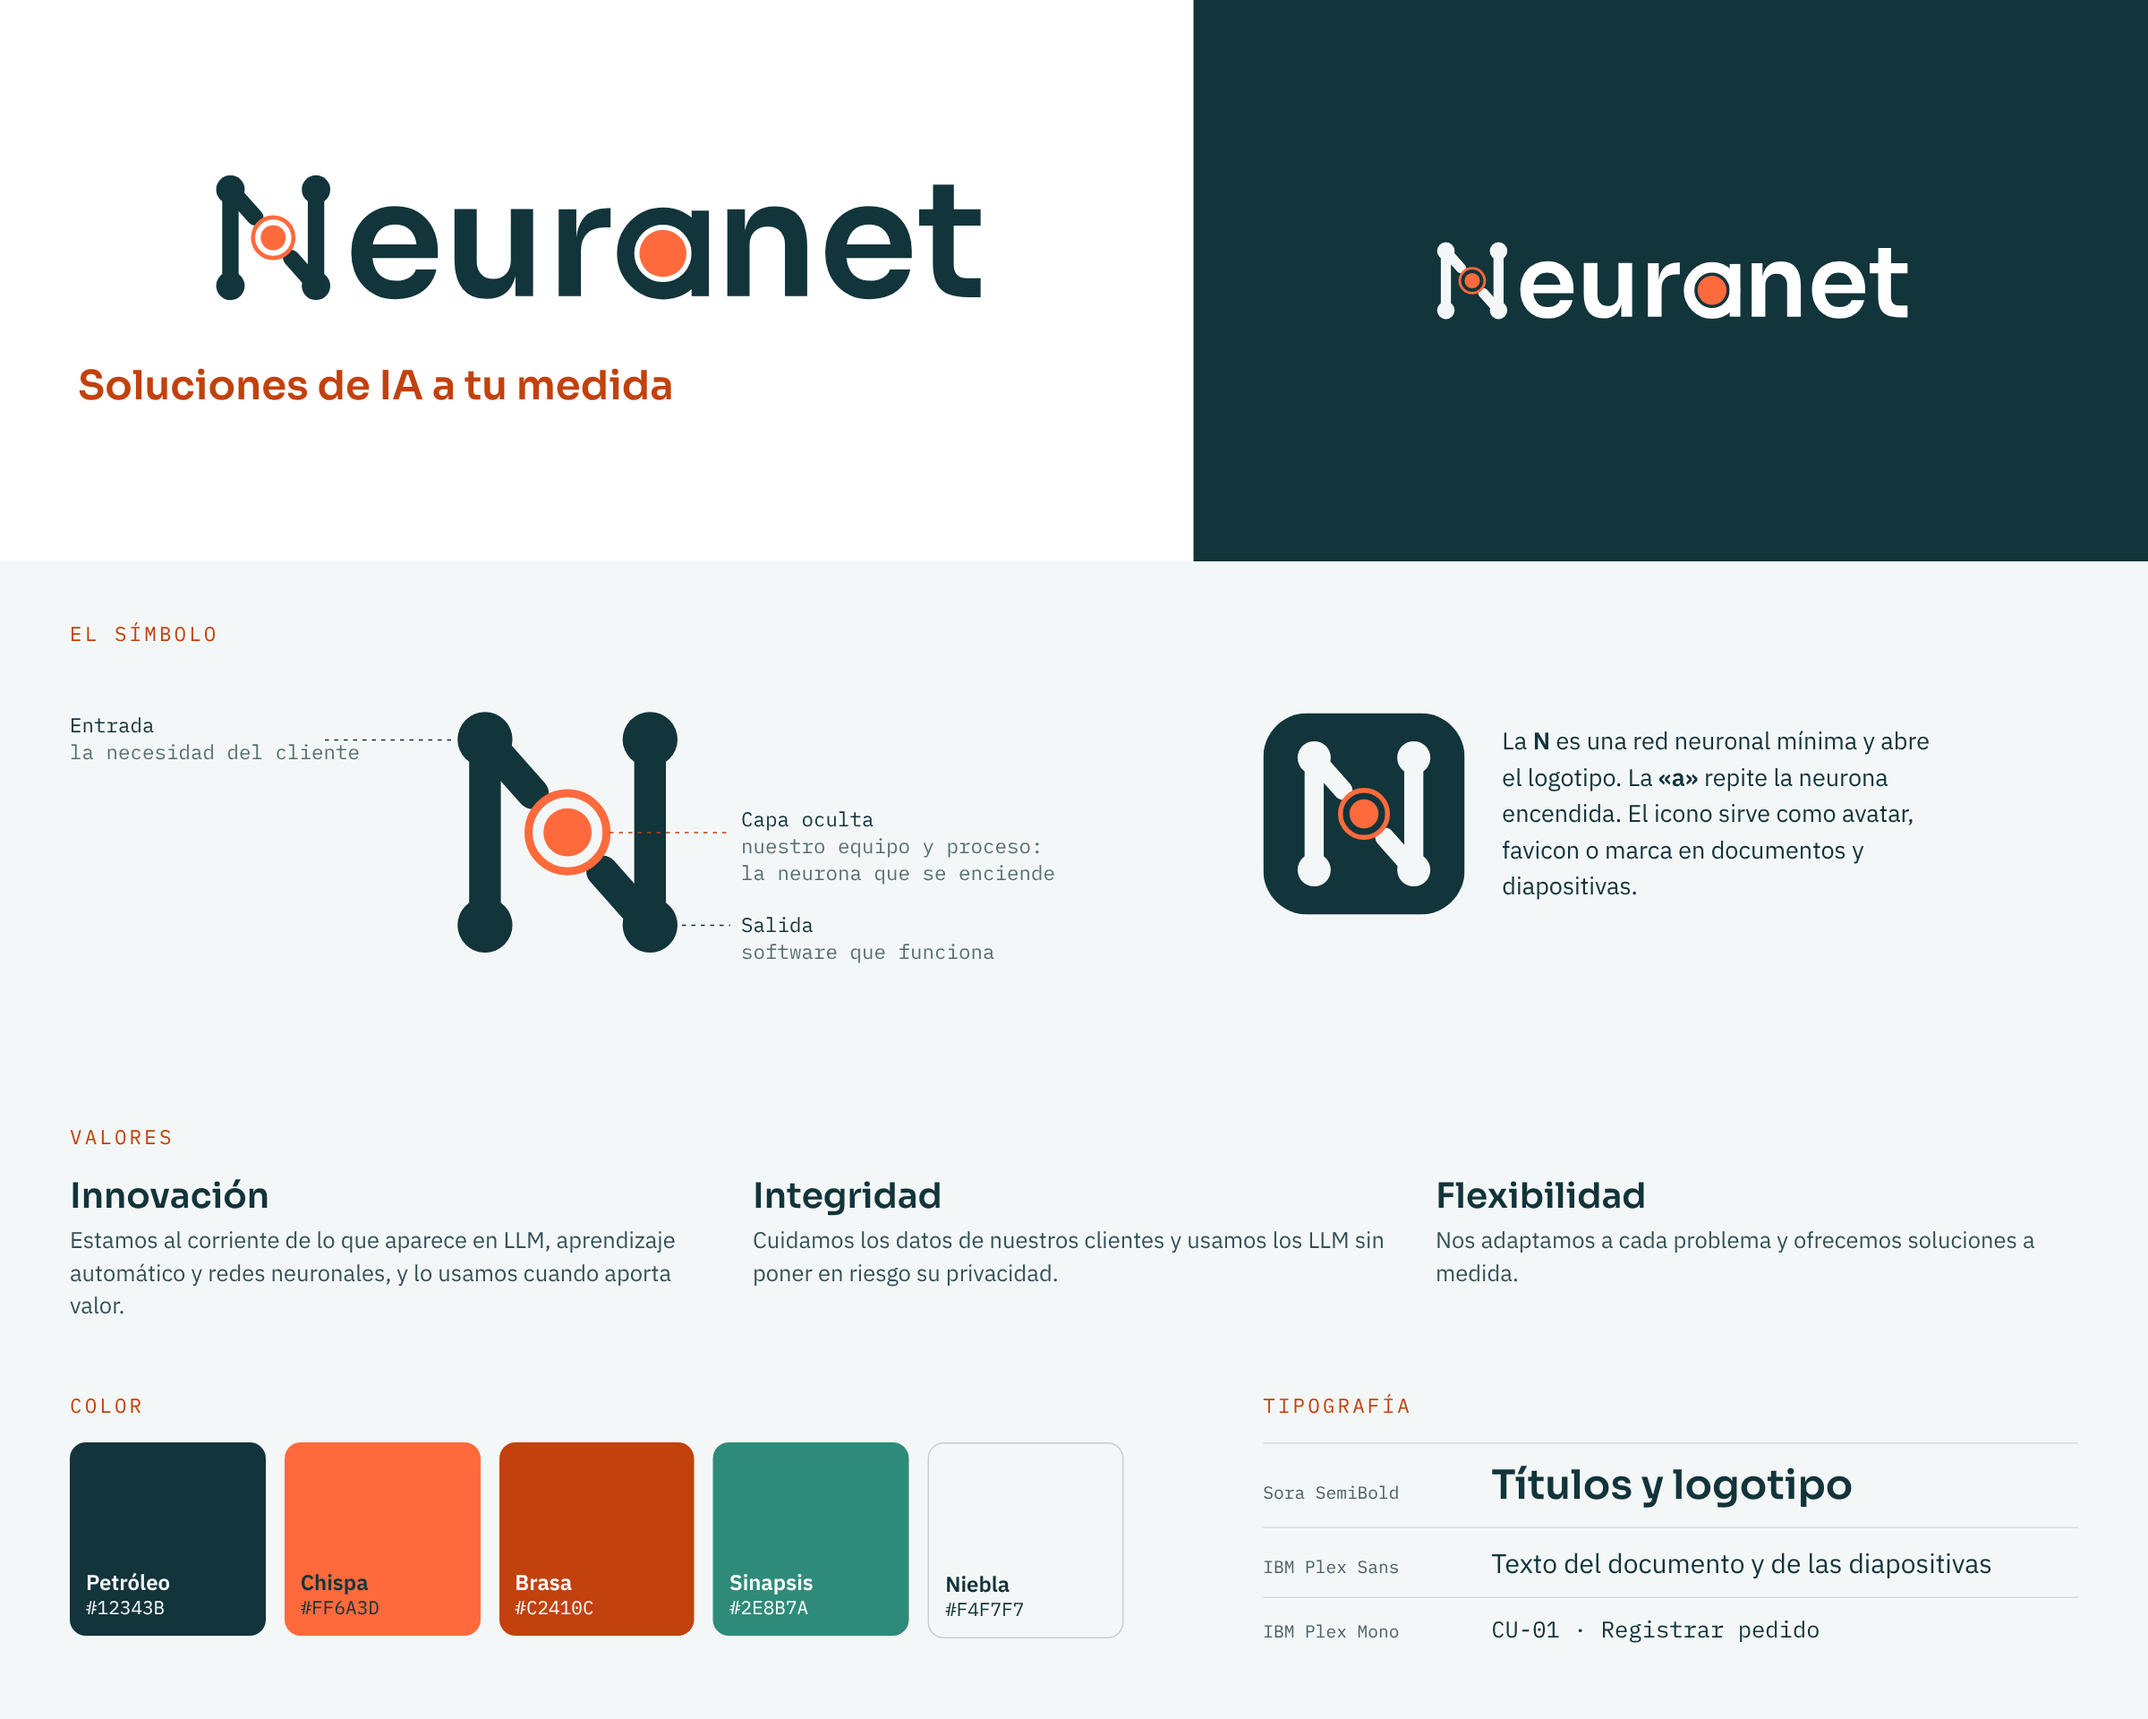
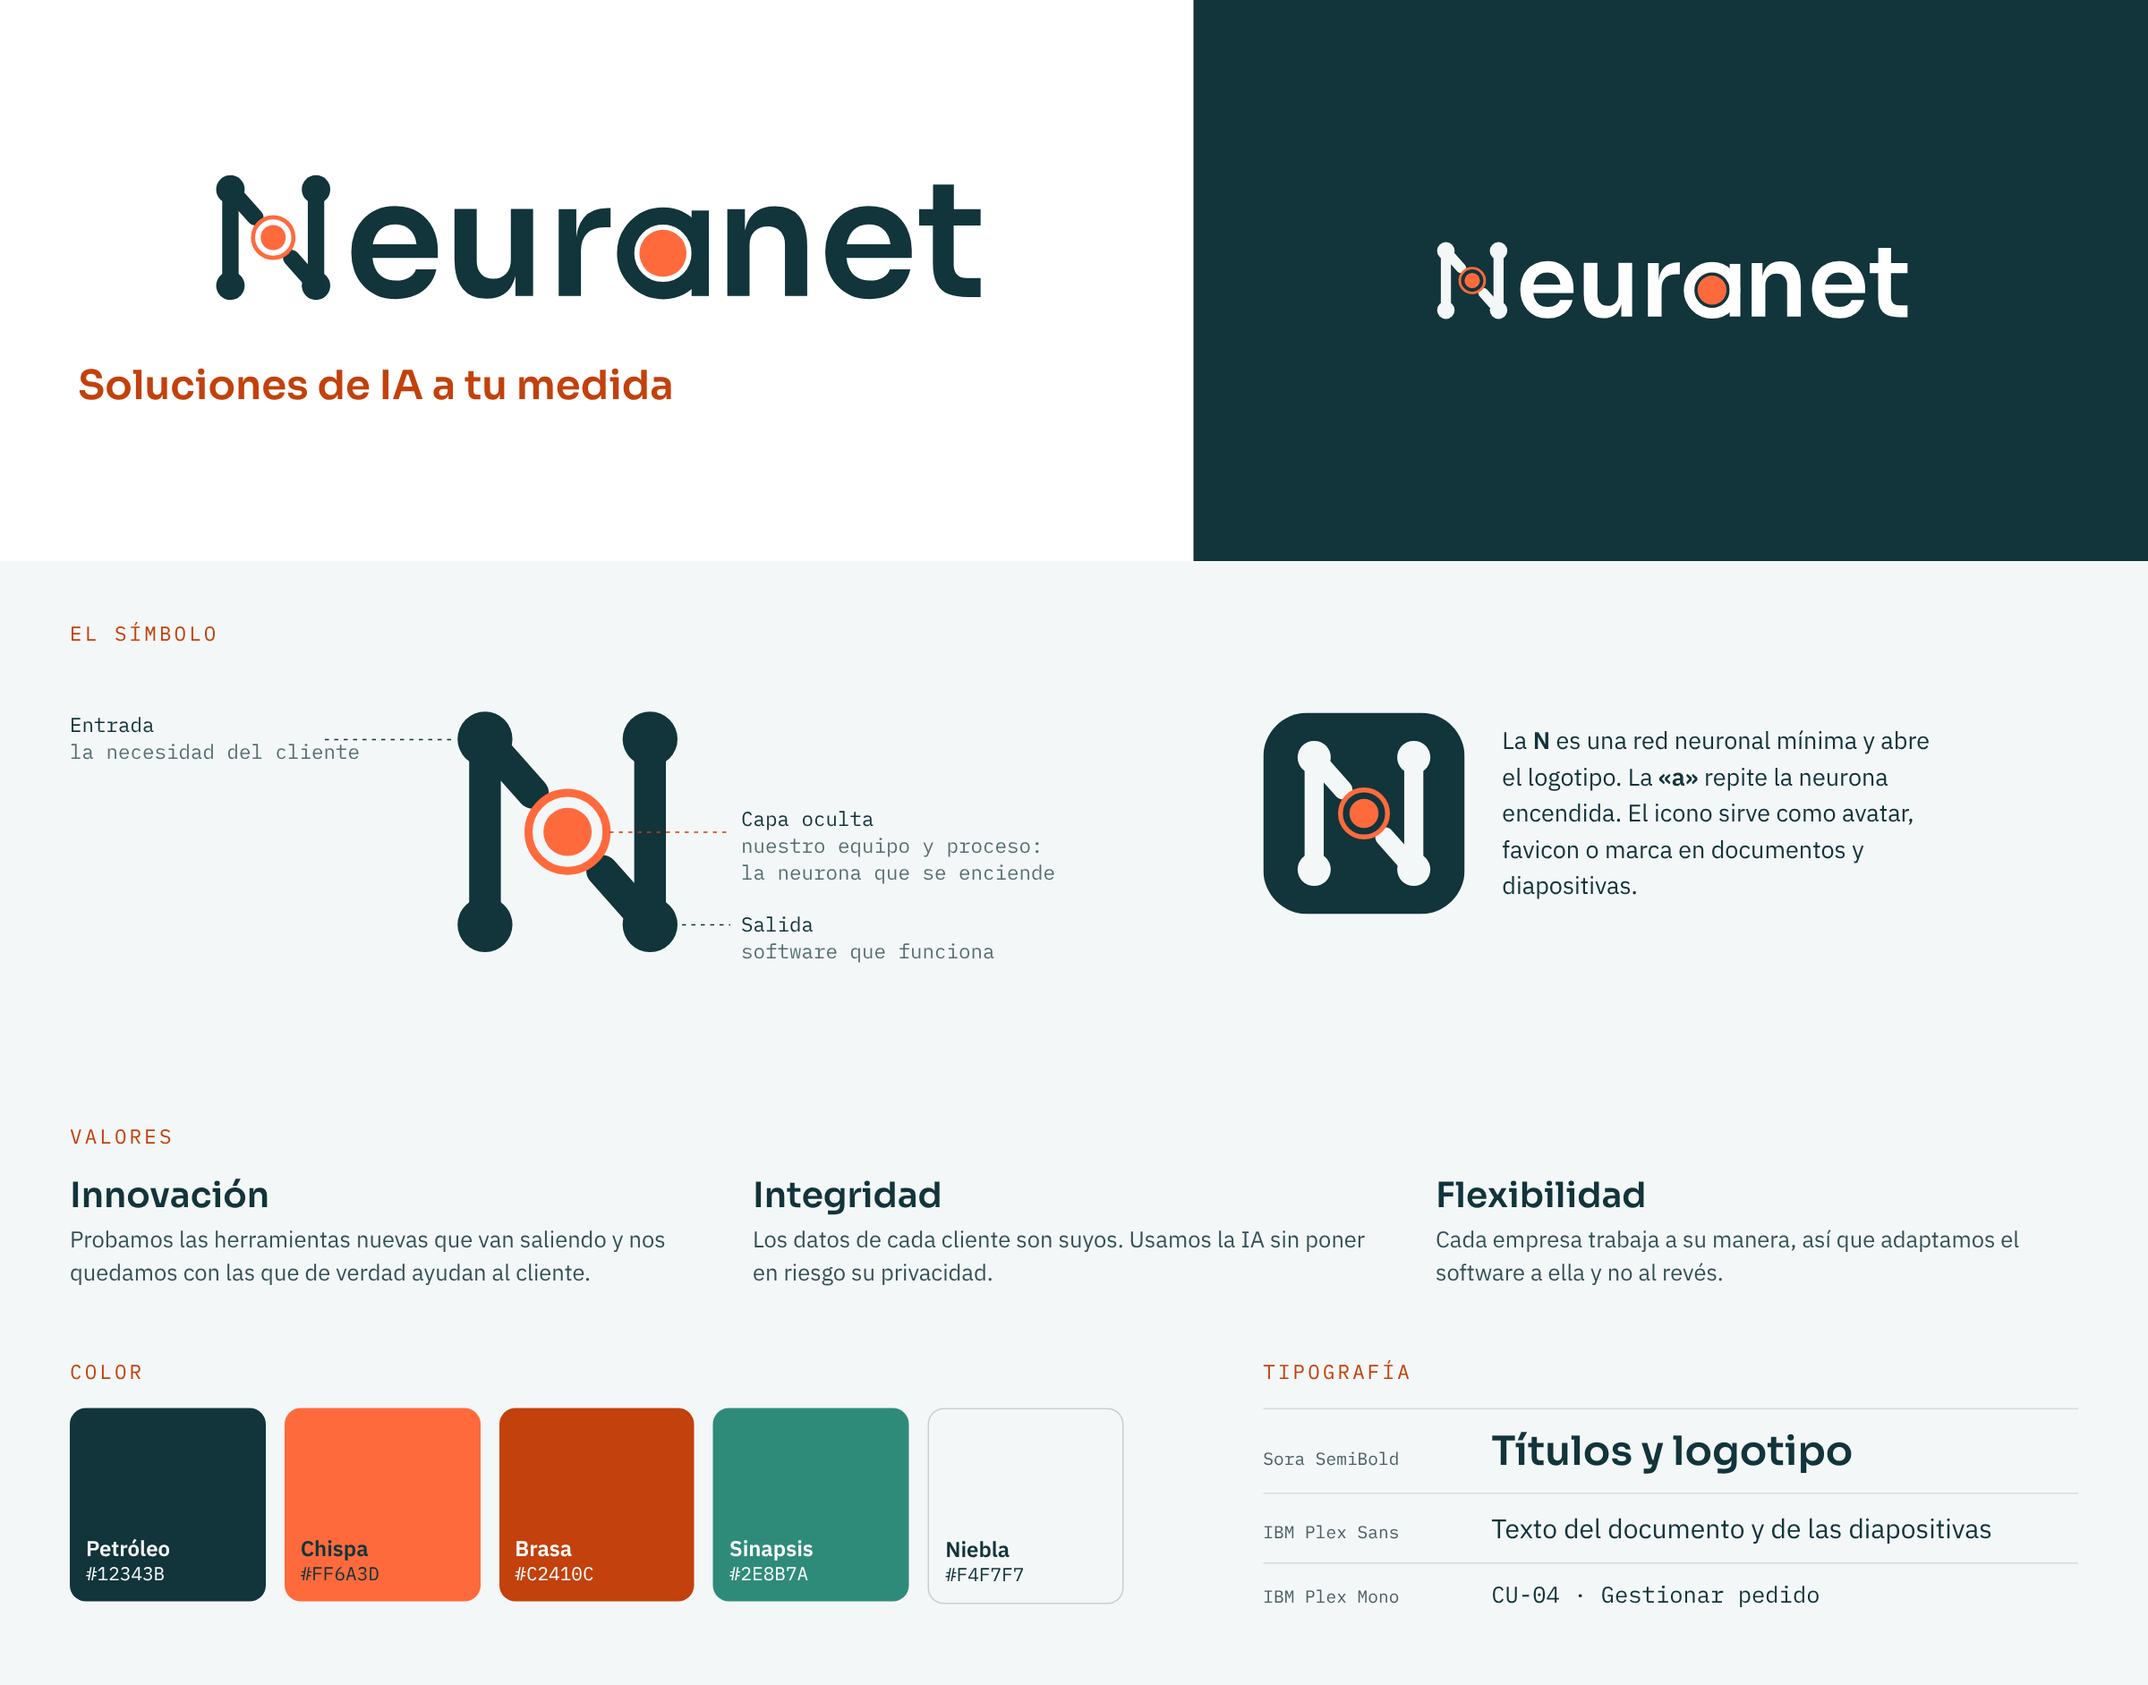
Poner al día la documentación del repo
- README de la raíz: qué es el proyecto, equipo, estado y estructura.
- Entrega 1: qué se entrega, guion de la presentación y checklist actualizada.
- Marca: valores con el texto final, también en la hoja de marca.
- Plantillas: chapter-break, section-tag y slide(fit: true).

diff --git a/entrega-1/README.md b/entrega-1/README.md
@@ -22,6 +22,25 @@ Resumen visual de todo el caso práctico: [`../RESUMEN-ENUNCIADO.md`](../RESUMEN
 
 Además se aplican las reglas generales (PDF pp. 13–14; diap. 15): **si falta algún apartado, no se aprueba** (completitud). Las decisiones se valoran **razonadas**. Nada de relleno ni adornos. Una mala redacción u ortografía puede quitar **hasta un 20 %**.
 
+## 📦 Qué se entrega
+
+| Fichero | Qué es |
+|---|---|
+| [`documento.pdf`](documento.pdf) | **La entrega**: 7 páginas. 1 Quiénes somos (nombre, valores, marca) · 2 Modelo de negocio (precio cerrado + cuota mensual, lienzo) · 3 Organización (estructura mixta, organigrama, cómo trabajamos) · 4 Casos de uso (decisiones, cambios tras la reunión, diagrama y tabla de CoreReservas y CoreBodega) |
+| [`presentacion.pdf`](presentacion.pdf) | 13 diapositivas, en el mismo orden que el documento. Poco texto: el resto se cuenta de palabra |
+| [`acta-reunion-01.pdf`](acta-reunion-01.pdf) | Acta de la reunión con el cliente del 16 oct (NN-AM-ACT-01). El documento la cita |
+
+Si Blackboard solo deja subir un fichero, se suben los tres en un `.zip`.
+
+**Guion de la presentación** (reparto propuesto por secciones, sin decidir aún):
+
+| Diapositivas | Sección | Qué contar |
+|---|---|---|
+| 1–5 | Quiénes somos | De dónde viene el nombre, qué hacemos, los tres valores, el logo («N» = red neuronal) y el lema |
+| 6–7 | Modelo de negocio | Para quién trabajamos, qué ofrecemos y cómo cobramos; recorrer el lienzo |
+| 8 | Organización | Por qué mezclamos jerárquica y plana, qué hace cada uno, trabajo híbrido y Proceso Unificado |
+| 9–12 | Casos de uso | Un diagrama por programa, un caso de uso por opción del menú, actores, «include» y «extend», y qué cambió tras la reunión |
+
 ---
 
 ## ✅ Checklist
@@ -78,11 +97,12 @@ Esto es lo que **dice el enunciado**, no un diseño: cómo lo agrupéis en casos
 
 ### Parte 3 · Documentación y presentación (25 %)
 
-- [x] **Documento** (PDF) con portada (empresa, logo, nombres de los cuatro miembros, asignatura, «Entrega 1») y las dos partes
+- [x] **Documento** (PDF) con portada (empresa, logo, cliente y los cuatro miembros) y las dos partes. Está escrito como un documento de Neuranet para el cliente, así que no lleva el nombre de la asignatura.
 - [x] **Diapositivas** para la exposición, con la marca de la empresa
 - [x] Diagramas **nítidos y legibles** al exportarlos, relacionados con el texto que los acompaña (PDF p. 14)
 - [ ] Revisión de **ortografía y redacción** por alguien que no lo haya escrito. No copiéis las erratas del enunciado: escribid **CoreBodega** (no «CoreBodegas»), **AñadaMaster** (sin tilde en la a) y **post mortem**.
 - [x] Sin relleno ni elementos solo decorativos (simplicidad)
+- [x] Textos en lenguaje llano, pensados para que los lea el cliente
 - [ ] Nada copiado de Internet ni de otro grupo. Se suspende **toda la asignatura** (diap. 16).
 
 ### Parte 4 · Exposición en clase (25 %)

diff --git a/README.md b/README.md
@@ -1,0 +1,40 @@
+# Neuranet · AñadaMaster
+
+Proyecto final de Ingeniería del Software (U-tad, 2026–27). Somos **Neuranet**, una empresa de software ficticia, y nuestro cliente es **Bodegas Viña Alcorza**, que nos encarga **AñadaMaster**: un sistema de gestión con dos programas, **CoreReservas** (pedidos) y **CoreBodega** (uva y empleados).
+
+| Persona | Cargo |
+|---|---|
+| Itziar Morales Rodriguez | CEO & Project Manager |
+| Samuel Porta Boylan | Business Analyst |
+| Javier Cejuela García | Software Architect |
+| Diego Herrera Rodríguez | Lead Developer (AI & QA) |
+
+## Estado
+
+| Entrega | Fecha | Estado |
+|---|---|---|
+| **Entrega 1** · Empresa + casos de uso | 22 oct 2026, 23:55 | Lista para entregar: [`entrega-1/`](entrega-1/README.md) |
+
+## Qué hay en el repo
+
+| Carpeta / fichero | Qué es |
+|---|---|
+| [`Enunciado Caso Práctico.pdf`](<Enunciado Caso Práctico.pdf>) | El enunciado (V 2.0) |
+| [`RESUMEN-ENUNCIADO.md`](RESUMEN-ENUNCIADO.md) | Resumen visual del caso práctico y de todas las entregas |
+| [`entrega-1/`](entrega-1/README.md) | Documento, diapositivas y acta de la E1 (`.typ` + `.pdf`), checklist, dudas para el cliente y marca |
+| [`diagramas/`](diagramas/) | Diagramas de se-ramify (JSON): casos de uso de CoreReservas y CoreBodega, con su especificación completa, y organigrama |
+| [`templates/`](templates/README.md) | Plantillas Typst con la marca de Neuranet (informe, documento breve, acta y diapositivas) y las fuentes |
+| `.github/workflows/pdfs.yml` | Acción *Generar PDF*: al hacer push a `main` compila todos los `.typ` y sube los PDF |
+
+## Compilar
+
+Con [Typst](https://typst.app) 0.13 o superior, desde la raíz del repo:
+
+```sh
+./templates/compilar.sh entrega-1/documento.typ   # un documento
+./templates/compilar-todo.sh                      # todos
+```
+
+No hace falta compilar antes de hacer push: la acción de GitHub lo hace sola. Después, `git pull` para traer el commit «Regenerar PDF».
+
+Los diagramas se editan en [se-ramify](https://github.com/itzi97/se-ramify) y se guardan en `diagramas/`. Los documentos los dibujan con el estilo de Neuranet (`usecase-diagram` en `templates/neuranet-ramify.typ`), así que al cambiar el JSON se actualizan solos.

diff --git a/templates/README.md b/templates/README.md
@@ -56,6 +56,7 @@ typst compile --root . --font-path templates/fonts entrega-1/documento.typ
 | `date` | `"22 de octubre de 2026"` | Ficha |
 | `author` | `"Nombre 1 · Nombre 2"` | «Preparado por» |
 | `confidential` | `true` / `false` | Sello en la portada y en el pie |
+| `chapter-break` | `true` / `false` | Si cada capítulo (`=`) empieza en página nueva. Con `false` los capítulos van seguidos, para documentos cortos |
 
 `neuranet-breve` acepta además `extra: (([Hora], [10:00]), ([Lugar], [Online]))` para añadir filas a la ficha (lo usa el acta).
 
@@ -67,7 +68,9 @@ typst compile --root . --font-path templates/fonts entrega-1/documento.typ
 * Control de versiones: `version-history(("1.0", "22/10/2026", "Autor", [Cambios]), ...)`
 * Diagramas: `orgchart(org-node(...))` (organigrama), `timeline(...)` (Gantt), `evolution-chain(...)`
 * Diagramas de se-ramify: `usecase-diagram(json("/diagramas/usecase-….json"))` dibuja un diagrama de casos de uso de se-ramify con el estilo de Neuranet (mismos nombres, códigos y relaciones que en la app; la maquetación se ajusta a la página)
-* Diapositivas: `title-slide`, `agenda-slide`, `section-slide`, `slide`, `slide-columns`, `focus-slide`, `stat`
+* Diapositivas: `title-slide`, `agenda-slide`, `section-slide`, `section-tag`, `slide`, `slide-columns`, `focus-slide`, `stat`
+  * `slide(fit: true)` escala el contenido para que llene la diapositiva (diagramas, organigramas, esquemas)
+  * `section-tag[...]` pone la etiqueta de sección en las diapositivas siguientes sin añadir una diapositiva separadora (para presentaciones cortas)
 * Código entre ```` ``` ```` con números de línea automáticos
 * Colores por nombre: `petroleo`, `brasa`, `chispa`, `sinapsis`, `niebla`
 

diff --git a/entrega-1/marca/MARCA.md b/entrega-1/marca/MARCA.md
@@ -21,9 +21,9 @@
 
 | Valor | Qué significa para nosotros |
 |---|---|
-| **Innovación** | Estamos al corriente de lo que aparece y lo usamos cuando aporta valor al cliente |
-| **Integridad** | Cuidamos los datos de nuestros clientes y usamos los LLM sin poner en riesgo su privacidad |
-| **Flexibilidad** | Nos adaptamos a cada problema y ofrecemos soluciones a medida |
+| **Innovación** | Probamos las herramientas nuevas que van saliendo y nos quedamos con las que de verdad ayudan al cliente |
+| **Integridad** | Los datos de cada cliente son suyos. Usamos la IA sin poner en riesgo su privacidad |
+| **Flexibilidad** | Cada empresa trabaja a su manera, así que adaptamos el software a ella y no al revés |
 
 **Tono de voz:** claro, directo y sin jerga innecesaria. Frases cortas.
 
